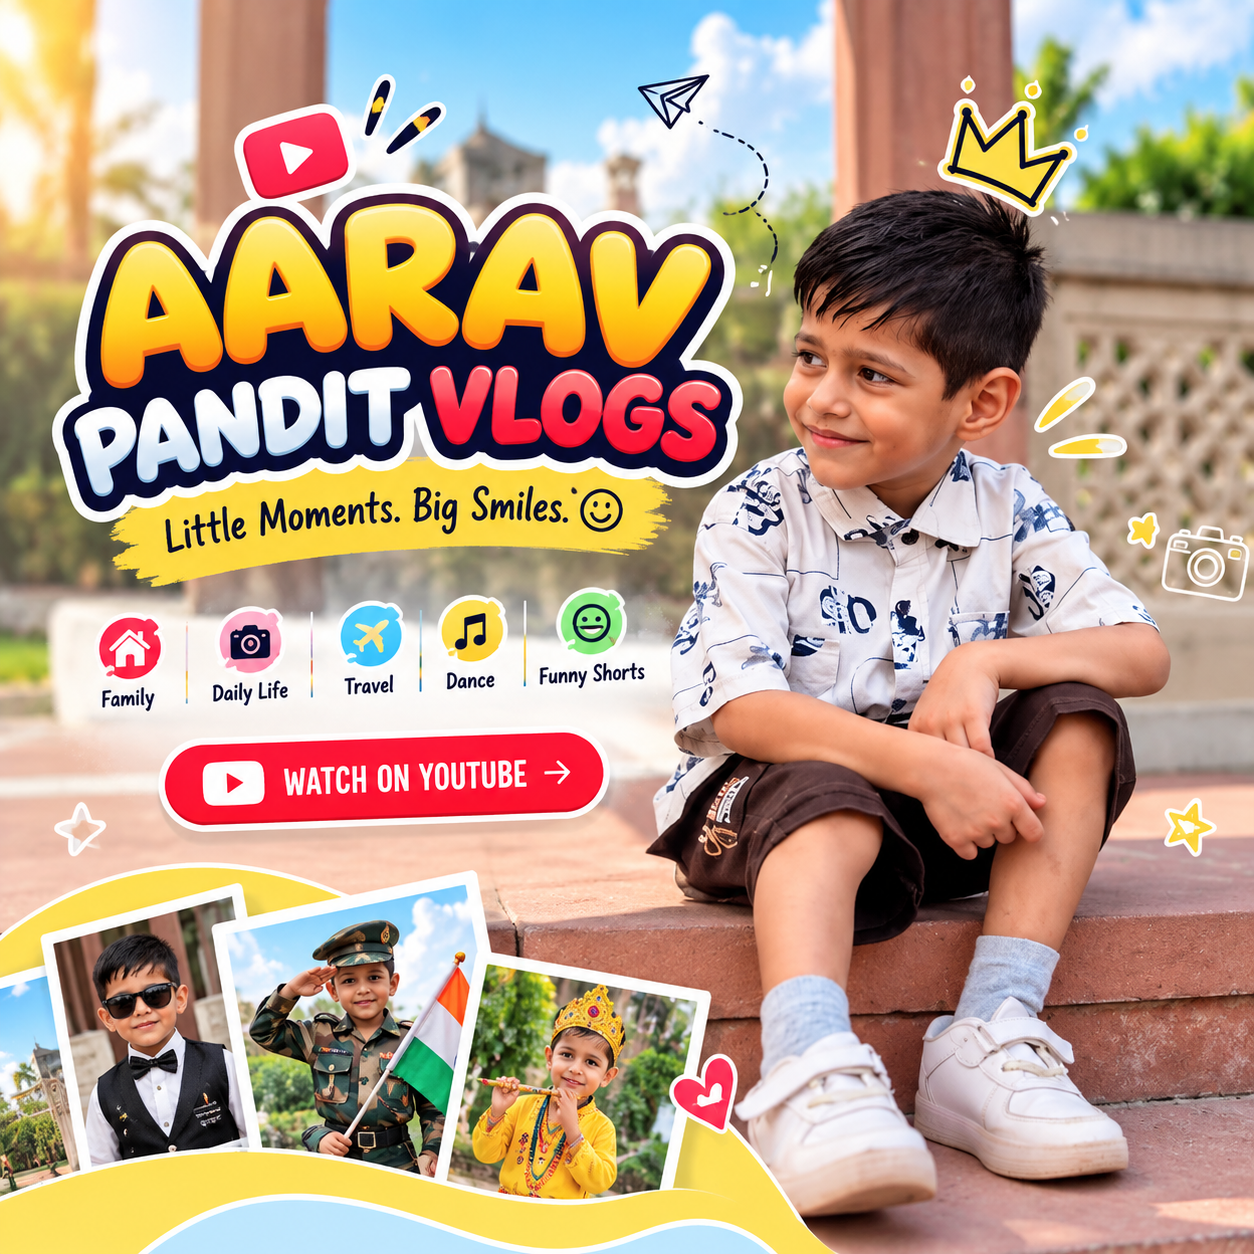
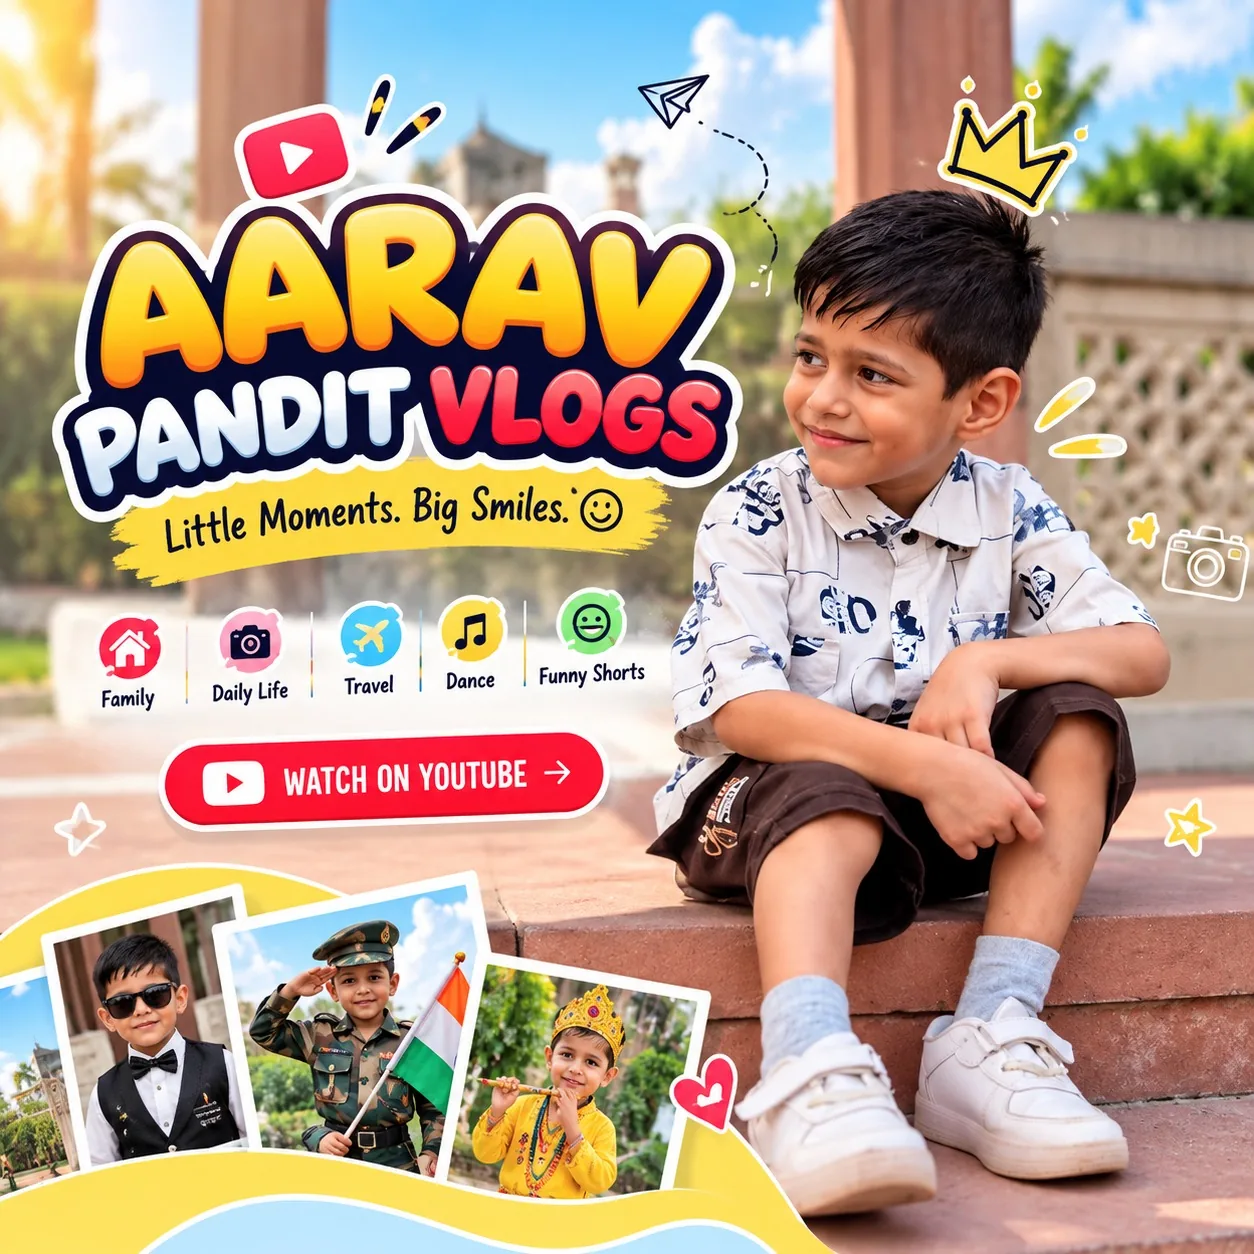
Update

diff --git a/style.css b/style.css
@@ -353,17 +353,28 @@ h4 {
   position: fixed;
   inset: 0;
   z-index: 1050;
-  background-color: rgba(21, 21, 21, 0.5);
+
+  /* Background overlay */
+  background-color: rgba(21, 21, 21, 0.55);
   -webkit-backdrop-filter: blur(4px);
   backdrop-filter: blur(4px);
+
+  /* Hidden by default */
   opacity: 0;
   visibility: hidden;
-  transition: var(--transition-smooth);
+  pointer-events: none;
+
+  /* Smooth animation */
+  transition:
+    opacity 0.3s ease,
+    visibility 0.3s ease;
 }
 
+/* Show backdrop when mobile menu is open */
 .mobile-nav-backdrop.active {
   opacity: 1;
   visibility: visible;
+  pointer-events: auto;
 }
 
 .mobile-nav {
@@ -414,7 +425,7 @@ h4 {
   display: flex;
   flex-direction: column;
   gap: 16px;
-  margin-top: 30px;
+  margin-top: 10px;
 
   /* Mobile scrolling fix */
   max-height: calc(100vh - 150px);
@@ -427,7 +438,7 @@ h4 {
   overscroll-behavior-y: contain;
 
   /* Space at the bottom */
-  padding-bottom: 20px;
+  padding-bottom: 10px;
   box-sizing: border-box;
 }
 
